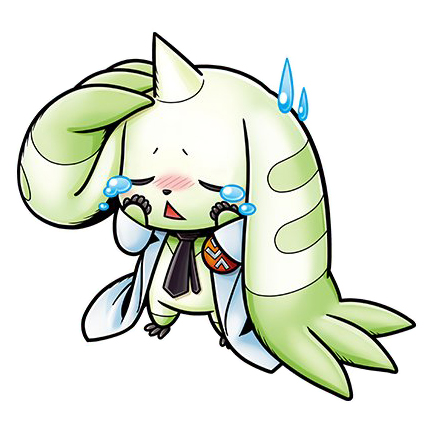
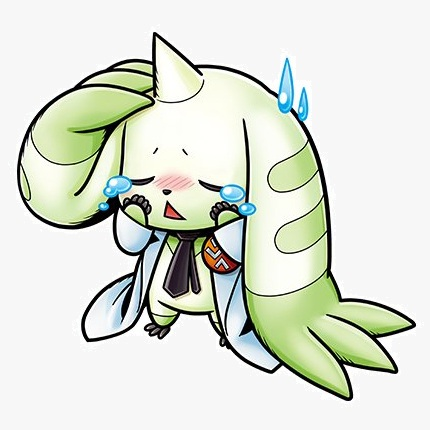
implemented logic to change the expanse category
change terrimon image background

diff --git a/src/app/dashboard/expanse/page.tsx b/src/app/dashboard/expanse/page.tsx
@@ -1,0 +1,164 @@
+'use client'
+
+import * as React from 'react';
+import LoadingBar from "@/components/loadingBar/page";
+import { getMonthFirstDay, getMonthLastDay } from "@/utils/dateTime.utils";
+import useSWR, {mutate} from 'swr'
+import {DataGrid, GridRenderCellParams, GridRowModel} from '@mui/x-data-grid';
+import Grid from '@mui/material/Grid2';
+import Box from '@mui/material/Box';
+import Typography from '@mui/material/Typography';
+import { Category } from '@/types/category';
+import IconButton from "@mui/material/IconButton";
+import EditIcon from "@mui/icons-material/Edit";
+import {fetcher} from "@/utils/SWR.utils";
+import EditExpanseDialog from "@/app/dashboard/expanse/EditExpanseDialog";
+
+const currentDate = new Date(Date.now())
+const ExpanseFetcher = async (url: string) =>
+{
+    const params = {
+        // todo: get userId from context
+        userId: `${process.env.NEXT_PUBLIC_USER_ID}`,
+        firstDayOfMonthDate: getMonthFirstDay(currentDate),
+        lastDayOfMonthDate: getMonthLastDay(currentDate)
+    }
+    const fullUrl = `${url}?userId=${params.userId}&firstDayOfMonthDate=${params.firstDayOfMonthDate}&lastDayOfMonthDate=${params.lastDayOfMonthDate}`
+
+    try {
+        const res = await fetch(fullUrl, {
+            method: 'GET',
+        });
+        if (!res.ok) {
+            throw new Error('Network response was not ok');
+        }
+        return await res.json();
+    } catch (error) {
+        // @ts-ignore
+        throw new Error(`Fetch error: ${error.message}`);
+    }
+};
+
+export default function Expanse() {
+    //todo look into context API to save the User ID
+    const userId = process.env.NEXT_PUBLIC_USER_ID
+    const { data, error, isLoading } = useSWR(`http://localhost:5000/expanse/month`, ExpanseFetcher)
+    const { data: categoryData, error: categoryError, isLoading: categoryIsLoading } = useSWR(`http://localhost:5000/category?userId=${userId}`, fetcher)
+    const [ isEditExpanseDialogOpen, setEditExpanseDialogOpen ] = React.useState(false)
+    const [ selectedExpanse, setSelectedExpanse ] = React.useState<GridRowModel<any> | null>(null)
+    const [ selectedCategoryId, setSelectedCategoryId ] = React.useState('')
+    const [ responseMessage, setResponseMessage ] = React.useState('')
+
+    if (error || categoryError){
+        return <Typography variant="h4">Error Loading Data</Typography>
+    }
+    if (isLoading || categoryIsLoading) return <LoadingBar />
+
+    const categories: Category[] = categoryData.map((item: any) => ({
+        category_id: item.category_id,
+        name: item.name,
+    }));
+
+    const columns = [
+        {field: 'date', headerName: 'Date', width: 150, valueGetter: (date: any, row:any) => date.value },
+        { field: 'name', headerName: 'Name', width: 200 },
+        {field: 'amount', headerName: 'Amount', width: 150 },
+        {field: 'card_name', headerName: 'Card Name', width: 200 },
+        { field: 'categoryName', headerName: 'Category Name', width: 200 },
+        {
+            field: 'edit',
+            width: 100,
+            filterable: false,
+            renderCell: (params: GridRenderCellParams) => (
+                <IconButton onClick={() => handleEditExpanse(params.row)}>
+                    <EditIcon />
+                </IconButton>
+            )
+        }
+    ]
+
+    const handleOnClose = () => {
+        setEditExpanseDialogOpen(false)
+    }
+
+    const handleEditExpanse = (expanse: GridRowModel<any>) => {
+        setSelectedExpanse(expanse)
+        const category = categoryData.find((category: any) => category.name === expanse.categoryName)
+        setSelectedCategoryId(category.category_id)
+        setEditExpanseDialogOpen(true)
+    }
+
+    const editExpanse = async (categoryId: string) => {
+        try {
+            await mutate('/expanse', async () => {
+                const url = `http://localhost:5000/expanse/${selectedExpanse.expanse_id}`
+                const response = await fetch(url, {
+                    method: 'PUT',
+                    headers: {
+                        'Content-Type': 'application/json',
+                    },
+                    body: JSON.stringify({
+                        updatedCategoryId: categoryId,
+                        updatedDate: selectedExpanse.date.value,
+                        updatedName: selectedExpanse.name,
+                        updatedAmount: selectedExpanse.amount,
+                        updatedCardName: selectedExpanse.card_name
+                    }),
+                });
+
+                if (!response.ok) {
+                    throw new Error('Failed to updated keyword');
+                }
+
+                const data = await response.json();
+                setResponseMessage(data.message)
+                setSelectedExpanse(null)
+                setSelectedCategoryId("")
+
+                setTimeout(() => {
+                    setResponseMessage("")
+                }, 3000)
+
+                await mutate(`http://localhost:5000/expanse/month`)
+            })
+        } catch (error) {
+            // @ts-ignore
+            throw new Error(`Failed to update keyword: ${error.message}`)
+        }
+    }
+
+    return (
+        <Box sx={{ flexGrow: 1}}>
+            <Grid container spacing={12} rowSpacing={2}>
+                <Grid size={10} sx={{ mt: '2rem', mb: '2rem', display: 'flex', justifyContent: 'center', alignItems: 'center' }}>
+                    <Typography variant="h4">{currentDate.toLocaleString('default', {month: 'long'})}  {currentDate.getFullYear()}</Typography>
+                </Grid>
+                <Grid size={10}>
+                    <Typography variant="body1">{responseMessage}</Typography>
+                </Grid>
+                <Grid size={12} sx={{ overflow: 'auto'}}>
+                    <DataGrid
+                        rows={data}
+                        columns={columns}
+                        initialState={{
+                            pagination: {
+                                paginationModel: { pageSize: 10 }
+                            }
+                        }}
+                        pageSizeOptions={[10, 20, 50]}
+                    />
+                </Grid>
+                {isEditExpanseDialogOpen && (
+                    <EditExpanseDialog
+                        open={isEditExpanseDialogOpen}
+                        onCloseAction={handleOnClose}
+                        onUpdateAction={editExpanse}
+                        label="Edit Expanse"
+                        categories={categories}
+                        keywordCategoryId={selectedCategoryId}
+                    />
+                )}
+            </Grid>
+        </Box>
+    )
+}

diff --git a/src/app/dashboard/expanse/EditExpanseDialog.tsx b/src/app/dashboard/expanse/EditExpanseDialog.tsx
@@ -1,0 +1,75 @@
+'use client'
+
+import * as React from 'react';
+import Dialog from '@mui/material/Dialog';
+import DialogTitle from '@mui/material/DialogTitle';
+import DialogContent from '@mui/material/DialogContent';
+import DialogActions from '@mui/material/DialogActions';
+import Button from '@mui/material/Button';
+import {Category} from "@/types/category";
+import {FormControl, InputLabel, MenuItem} from "@mui/material";
+import Select, {SelectChangeEvent} from "@mui/material/Select";
+
+interface EditExpanseDialogProps {
+    open: boolean;
+    onCloseAction: () => void;
+    onUpdateAction: (categoryId: string) => void;
+    label: string;
+    categories: Category[];
+    keywordCategoryId: string;
+}
+
+export default function EditExpanseDialog ({ open, onCloseAction, onUpdateAction, label, categories, keywordCategoryId }: EditExpanseDialogProps) {
+    const [ selectedCategoryId, setSelectedCategoryId ] = React.useState(keywordCategoryId);
+
+    const handleSelectCategory = async (event: SelectChangeEvent) => {
+        setSelectedCategoryId(event.target.value as string);
+    }
+
+    const handleEdit = () => {
+        onUpdateAction(selectedCategoryId)
+        onCloseAction();
+    };
+
+    return (
+        <Dialog
+            open={open}
+            onClose={onCloseAction}
+            PaperProps={{
+                sx: {
+                    width: '30rem', // Set the desired width here
+                },
+            }}
+        >
+            <DialogTitle>{label}</DialogTitle>
+            <DialogContent>
+                <FormControl fullWidth>
+                    <InputLabel id="category-select-label"
+                                sx={{ mt: '0.6rem' }}
+                    >
+                        Select A Category
+                    </InputLabel>
+                    <Select
+                        labelId="category-select-label"
+                        value={selectedCategoryId}
+                        onChange={handleSelectCategory}
+                    >
+                        {categories.map((category: { category_id: string, name: string }) => (
+                            <MenuItem key={category.category_id} value={category.category_id}>
+                                {category.name}
+                            </MenuItem>
+                        ))}
+                    </Select>
+                </FormControl>
+            </DialogContent>
+            <DialogActions>
+                <Button onClick={onCloseAction} color="primary">
+                    Cancel
+                </Button>
+                <Button type="submit" onClick={handleEdit} color="primary">
+                    Confirm
+                </Button>
+            </DialogActions>
+        </Dialog>
+    )
+}

diff --git a/src/components/sidenav/page.tsx b/src/components/sidenav/page.tsx
@@ -30,9 +30,16 @@ export default function SideNav({ onClose, open }: SideNavProps): React.ReactEle
                     </ListItem>
                 </MenuItem>
                 <MenuItem>
+                    <ListItem component={Link} href={"/dashboard/expanse"}>
+                        <ListItemText>
+                            Current Month Expanses
+                        </ListItemText>
+                    </ListItem>
+                </MenuItem>
+                <MenuItem>
                     <ListItem component={Link} href={"/dashboard/uploadBudget"}>
                         <ListItemText>
-                            Upload & Budget Management
+                            Upload Csv to Expanses
                         </ListItemText>
                     </ListItem>
                 </MenuItem>

diff --git a/src/app/dashboard/page.tsx b/src/app/dashboard/page.tsx
@@ -82,7 +82,6 @@ export default function Dashboard() {
 
     //todo remove this after getting current budget spend from api
     const expansesTotal = data.reduce((acc: number, item: { amount: number}) => acc + item.amount, 0)
-    const currentDate = new Date(Date.now())
 
     let percentage: number
     if (expansesTotal > budgetAmount)

diff --git a/src/types/category.tsx b/src/types/category.tsx
@@ -1,4 +1,5 @@
 export interface Category {
+    id: string
     category_id: string;
     user_id: string;
     name: string;
